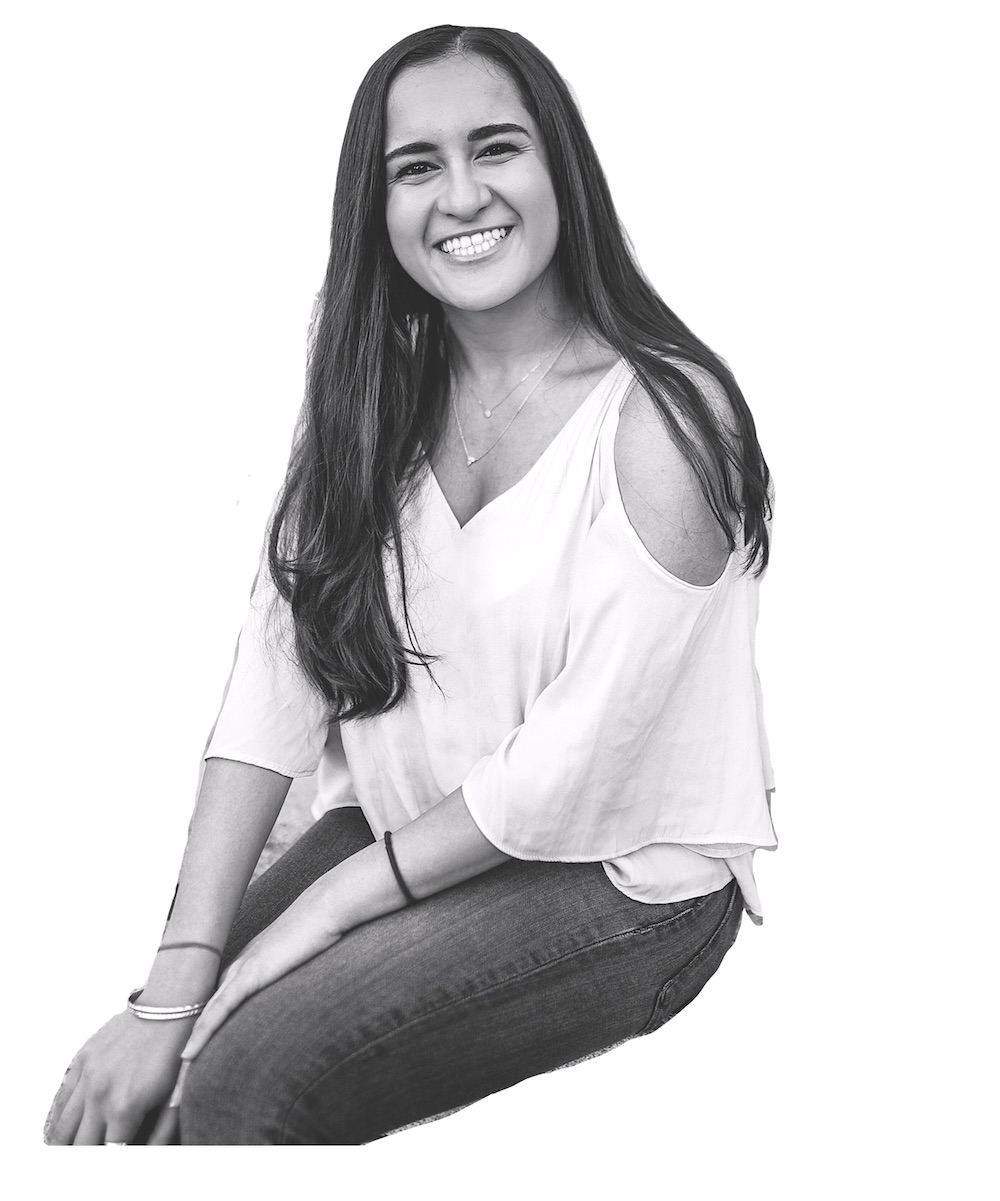
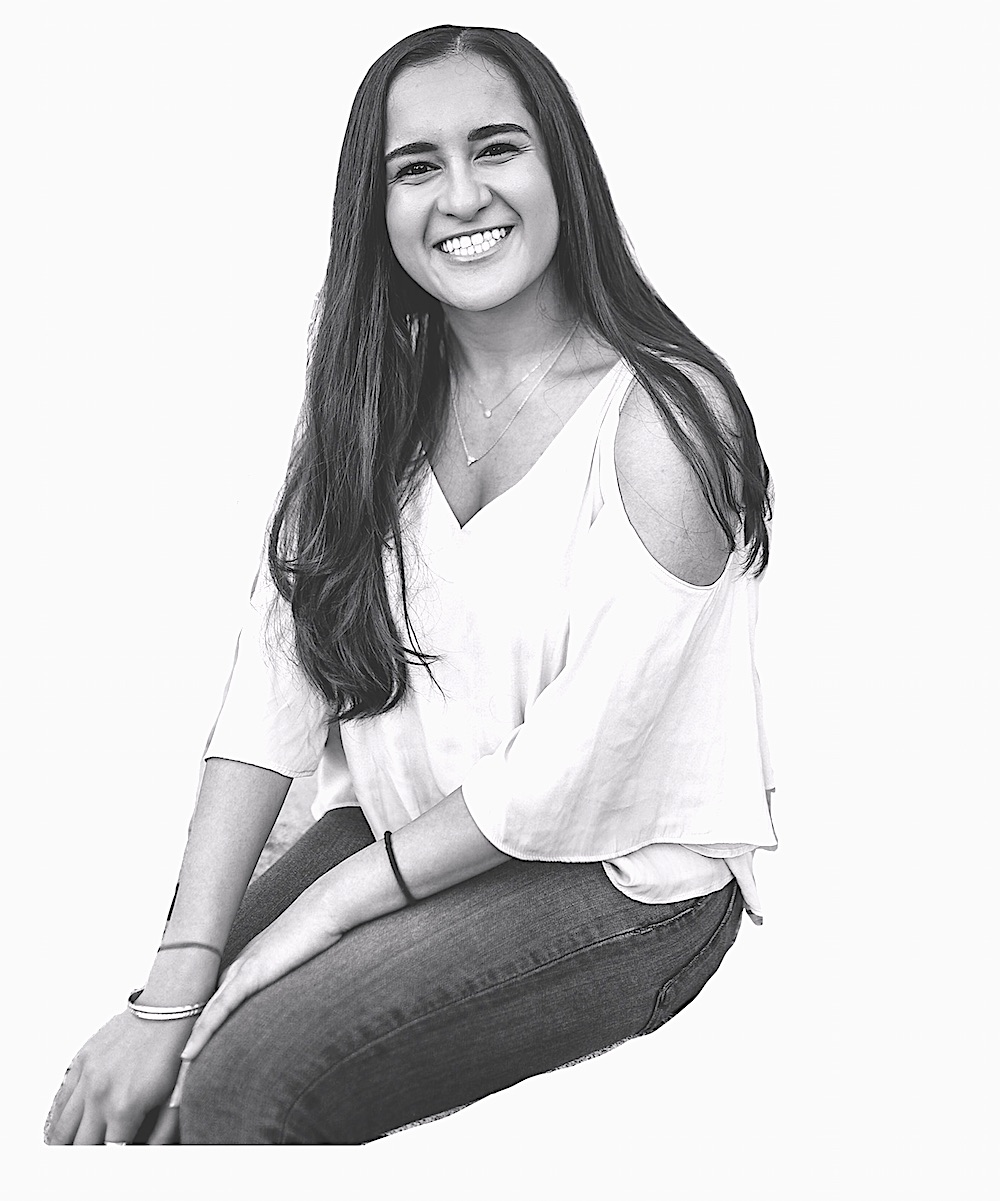
transparent photo

diff --git a/index.html b/index.html
@@ -31,8 +31,8 @@
 				<ul class="navbar-nav">
 					<li class="nav-item"><a class="nav-link" href="#section-home">Home</a></li>
 					<li class="nav-item"><a class="nav-link" href="#section-portfolio">Projects</a></li>
-					<li class="nav-item"><a class="nav-link" href="#section-about">About</a></li>
-					<li class="nav-item"><a class="nav-link" href="#section-resume">Resume</a></li>
+					<li class="nav-item"><a class="nav-link" href="#section-about">About Me</a></li>
+					<li class="nav-item"><a class="nav-link" href="#section-resume">Articles</a></li>
 					<li class="nav-item"><a class="nav-link" href="#section-contact">Contact</a></li>
 				</ul>
 			</div>
@@ -41,7 +41,7 @@
 
 
 
-	<section class="site-hero" style="background-image: url(images/sonali.jpg); background-size: 45%;
+	<section class="site-hero" style="background-image: url(images/sonali2.jpg); background-size: 45%;
 	background-position:right 15px;background-color: #ffffff;" id="section-home" data-stellar-background-ratio="0.5">
 		<div class="container">
 			<div class="row intro-text align-items-center">
@@ -57,9 +57,6 @@
 
 
 
-
-
-
 	<section class="site-section" id="section-portfolio">
 		<div class="container">
 			<div class="row">
@@ -67,16 +64,6 @@
 					<h2>My <strong>Projects</strong></h2>
 				</div>
 			</div>
-			<div class="filters">
-				<ul>
-					<li class="active" data-filter="*">All</li>
-					<li data-filter=".packaging">Packaging</li>
-					<li data-filter=".mockup">Mockup</li>
-					<li data-filter=".typography">Typography</li>
-					<li data-filter=".photography">Photography</li>
-				</ul>
-			</div>
-
 			<div class="filters-content">
 				<div class="row grid">
 					<div class="single-portfolio col-sm-4 all mockup">

diff --git a/css/style.css b/css/style.css
@@ -162,7 +162,7 @@ a {
     left: 0;
     right: 0;
     bottom: 0;
-    background: rgba(0, 0, 0, 0.5); }
+    background: rgba(0, 0, 0, 0.2); }
   .site-hero h1 {
     font-weight: 200;
     margin-bottom: 20px;
